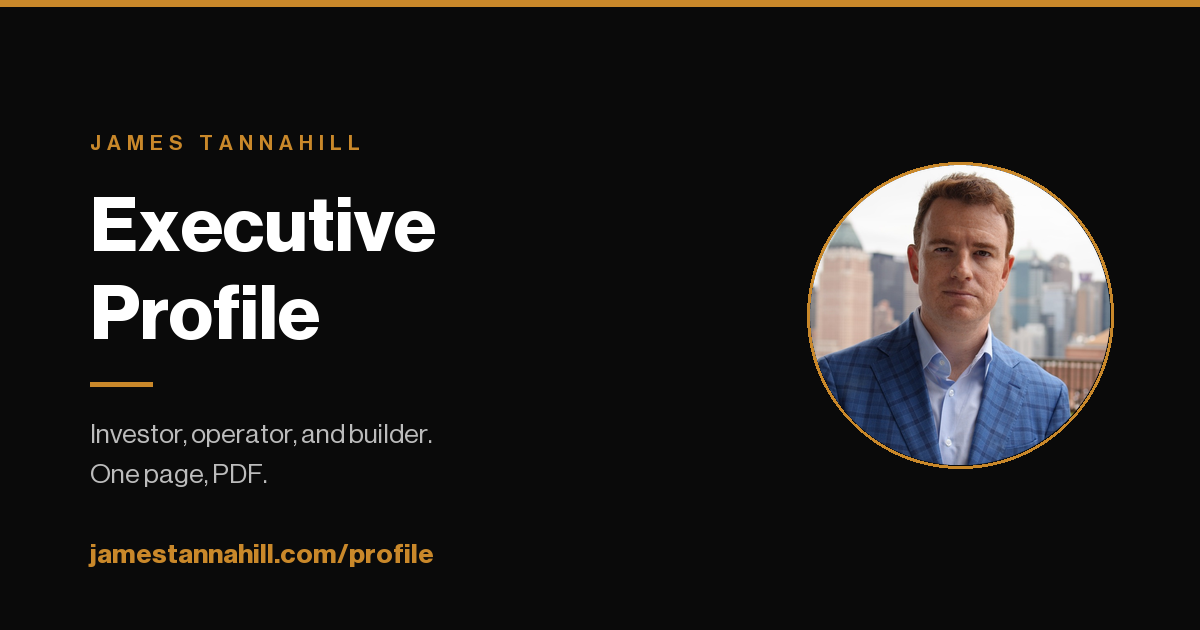
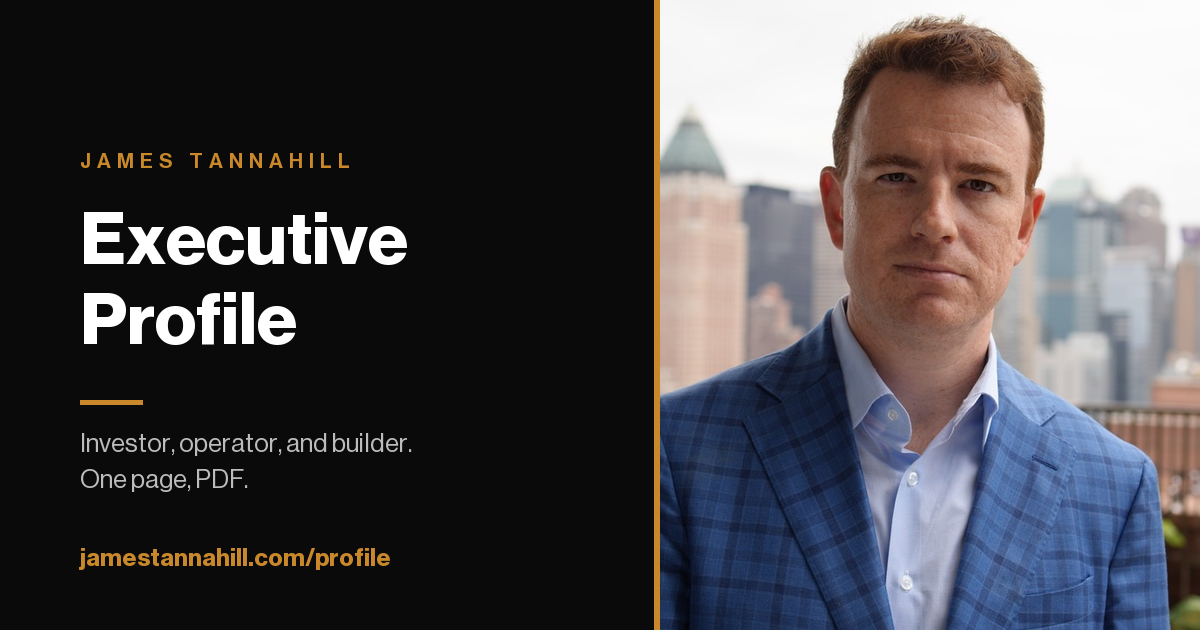
OG profile card: split-panel design

diff --git a/scripts/gen-og-profile.py b/scripts/gen-og-profile.py
@@ -1,9 +1,9 @@
-"""OG card for /profile: dark ink ground, amber hairline, tracked eyebrow,
-NHG Display headline, amber rule, grey standfirst, amber URL, with the
-headshot in a circle on the right. Same furniture as the thoughts cards.
+"""OG card for /profile: split panel. Full-bleed headshot on the right
+behind an amber divider, ink type panel on the left (tracked eyebrow,
+NHG Display headline, amber rule, grey standfirst, amber URL).
 """
 from fontTools.ttLib import TTFont
-from PIL import Image, ImageDraw, ImageFont, ImageOps
+from PIL import Image, ImageDraw, ImageFont
 import pathlib
 
 SRC = pathlib.Path.home() / "jamestannahill-map/fonts"
@@ -38,49 +38,30 @@ def tracked(draw, xy, text, font, fill, tracking):
 
 
 img = Image.new("RGB", (W, H), INK)
-d = ImageDraw.Draw(img)
-d.rectangle([0, 0, W, 6], fill=AMBER)
 
-# Headshot in a circle on the right, with a thin amber ring.
 shot = Image.open(OUT / "headshot.jpg").convert("RGB")
-side = min(shot.size)
-shot = shot.crop((
-    (shot.width - side) // 2,
-    (shot.height - side) // 2,
-    (shot.width + side) // 2,
-    (shot.height + side) // 2,
-))
-DIA = 300
-shot = shot.resize((DIA, DIA), Image.LANCZOS)
-mask = Image.new("L", (DIA * 4, DIA * 4), 0)
-ImageDraw.Draw(mask).ellipse([0, 0, DIA * 4, DIA * 4], fill=255)
-mask = mask.resize((DIA, DIA), Image.LANCZOS)
-cx, cy = W - 90 - DIA, (H - DIA) // 2
-img.paste(shot, (cx, cy), mask)
-d.ellipse([cx - 3, cy - 3, cx + DIA + 3, cy + DIA + 3], outline=AMBER, width=3)
+scale = H / shot.height
+sw = round(shot.width * scale)
+shot = shot.resize((sw, H), Image.LANCZOS)
+panel = 660
+left = max(0, (sw - (W - panel)) // 2)
+img.paste(shot.crop((left, 0, left + (W - panel), H)), (panel, 0))
+
+d = ImageDraw.Draw(img)
+d.rectangle([panel - 6, 0, panel - 1, H], fill=AMBER)
 
 f_eyebrow = ImageFont.truetype(MED, 21)
-f_title = ImageFont.truetype(BOLD, 76)
-f_sub = ImageFont.truetype(ROMAN, 27)
-f_url = ImageFont.truetype(BOLD, 27)
+f_name = ImageFont.truetype(BOLD, 72)
+f_sub = ImageFont.truetype(ROMAN, 26)
+f_url = ImageFont.truetype(BOLD, 24)
 
-x, y = 90, 132
-tracked(d, (x, y), "JAMES TANNAHILL", f_eyebrow, AMBER, 6)
-
-y += 56
-for line in ("Executive", "Profile"):
-    d.text((x, y), line, font=f_title, fill=WHITE)
-    y += 88
-
-y += 18
-d.rectangle([x, y, x + 62, y + 4], fill=AMBER)
-
-y += 38
-for line in ("Investor, operator, and builder.", "One page, PDF."):
-    d.text((x, y), line, font=f_sub, fill=GREY)
-    y += 40
-
-d.text((90, H - 90), "jamestannahill.com/profile", font=f_url, fill=AMBER)
+tracked(d, (80, 150), "JAMES TANNAHILL", f_eyebrow, AMBER, 6)
+d.text((80, 205), "Executive", font=f_name, fill=WHITE)
+d.text((80, 285), "Profile", font=f_name, fill=WHITE)
+d.rectangle([80, 400, 142, 404], fill=AMBER)
+d.text((80, 430), "Investor, operator, and builder.", font=f_sub, fill=GREY)
+d.text((80, 466), "One page, PDF.", font=f_sub, fill=GREY)
+d.text((80, H - 84), "jamestannahill.com/profile", font=f_url, fill=AMBER)
 
 img.save(OUT / "og-profile.png", optimize=True)
 print("wrote og-profile.png", img.size)
